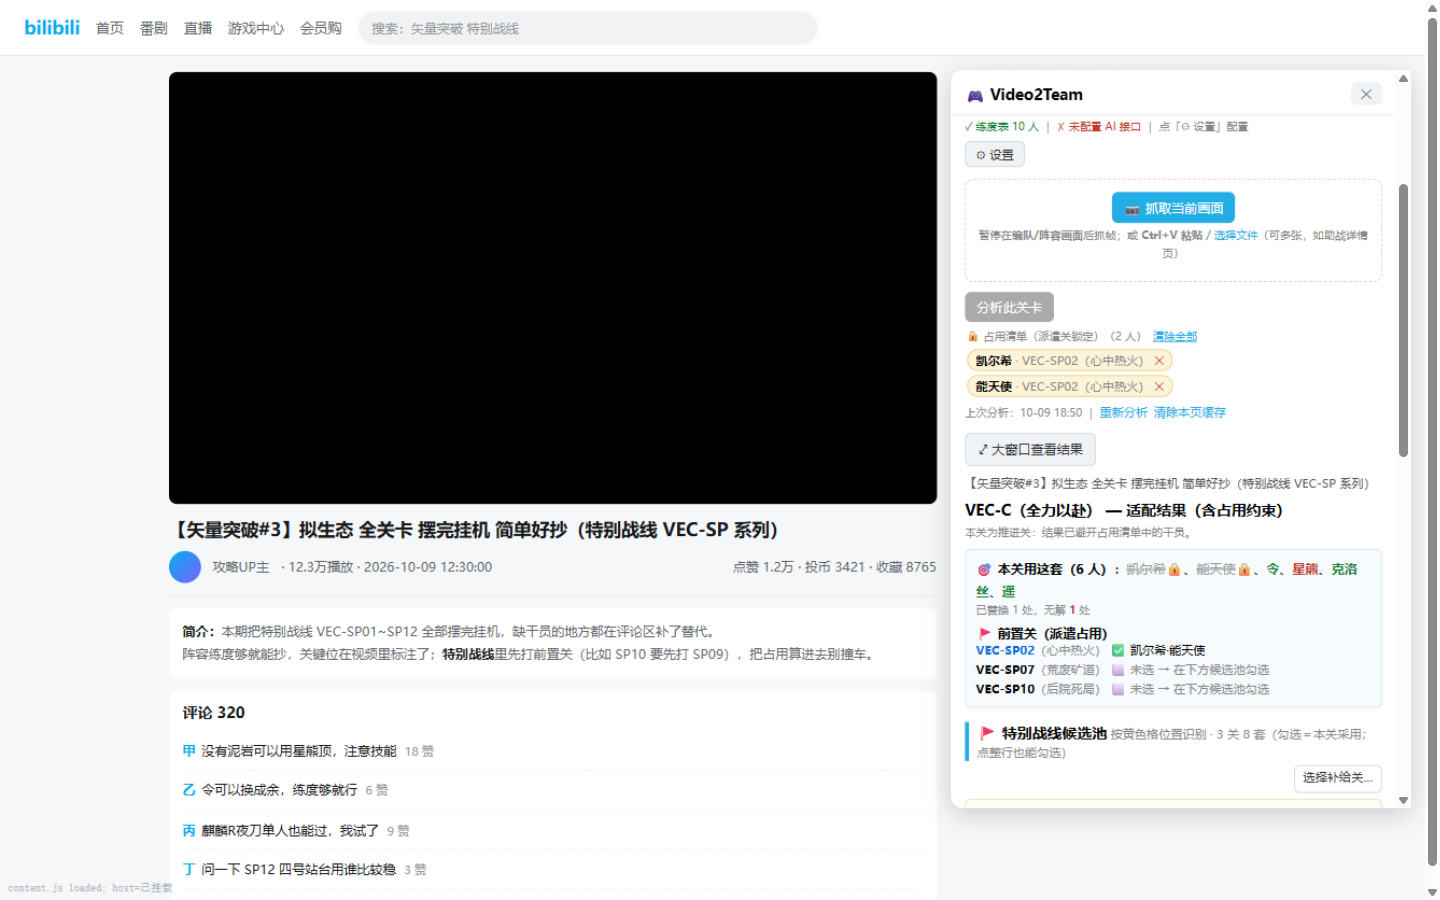
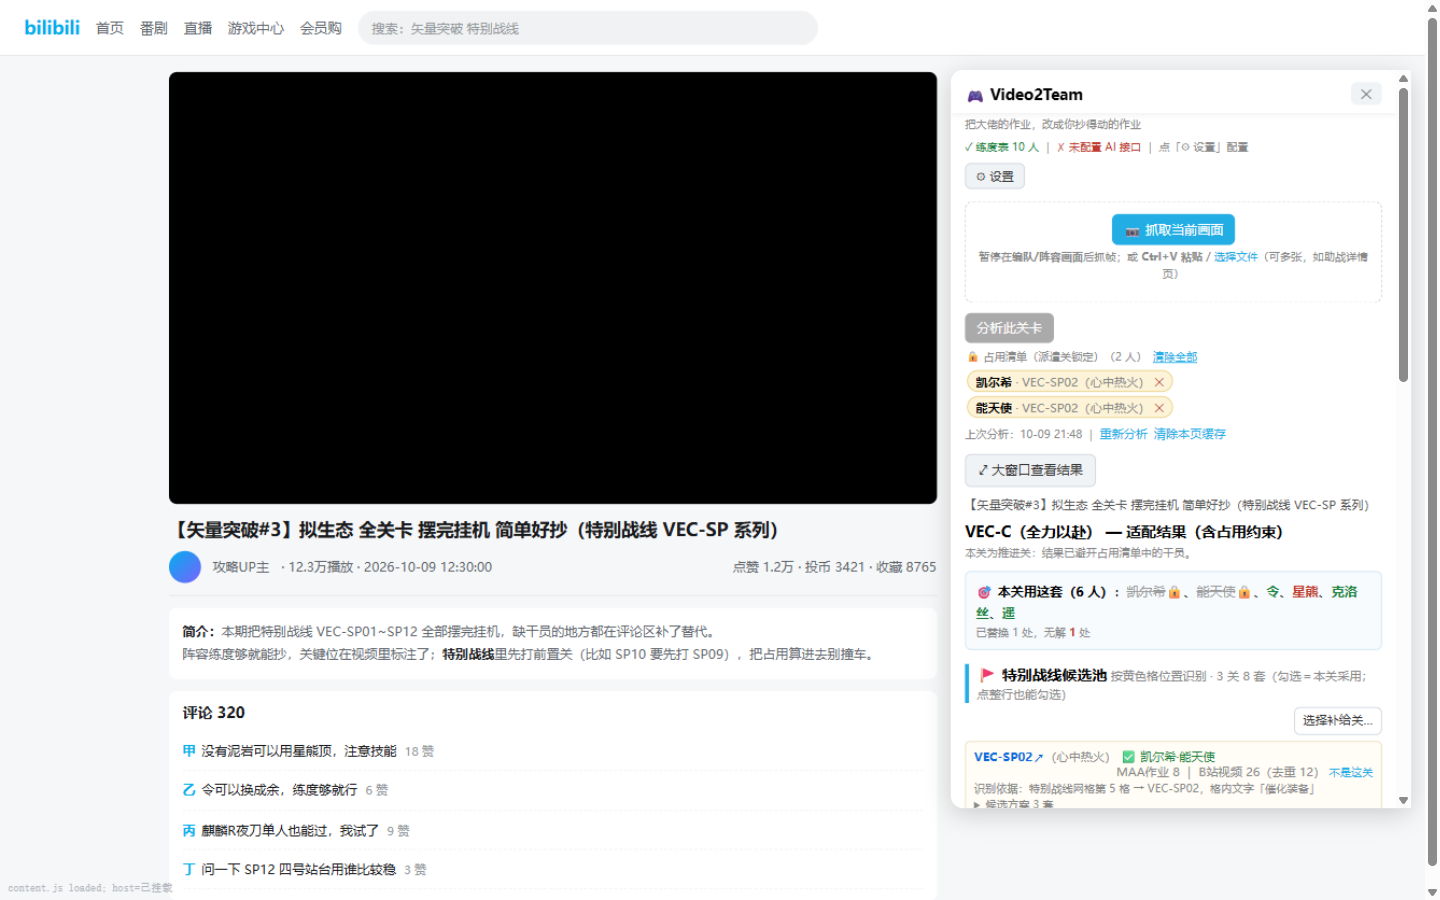
fix(第十六轮 q1+q2): 移除总览块里与候选池重复的「前置关（派遣占用）」列表 + 别名新增
q1（用户实测：P1 那块多余）——总览块里的「🚩 前置关（派遣占用）」逐关列表复述"这关选了哪套"，
与下方「🚩 特别战线候选池」每关行（✅ 已选 / ⬜ 未选，且是可勾选的主交互）重复，故移除：
- src/shared/render.ts overviewBlock() 去掉 guideLines；总览块只留
  「🎯 本关用这套（N 人）」+「已替换 N 处 / 无解 N 处」。面板 / popup / 大窗口共用渲染层，一处生效；
- 顺手修窄面板排版 bug：候选池关卡行右侧浮动的来源计数掉到第二行时（浮动不撑高父盒）
  会盖住下一行「识别依据」（实测重叠）→ 关卡行头部加 display:flow-root 建 BFC；
- 同步 v43-selftest 断言（原「总览块提示去候选池勾选」改为断言该列表已移除、进度由候选池行承接）；
- 同步 design-v4.md §10.6 + 变更记录、design-big-window.md（设计 B 更早做过整块移除，A 只摘重复的 P1 部分）、
  推广稿图2/图4 文案，并用夹具重新生成 docs/promo-images-v2/02-overview.png、04-big-window.png。

q2——别名新增：新能 → 新约能天使、寒克 → 克洛丝（data/aliases.json，共 357 条）；
selftest:v43 加 3 条断言，含「长名不受影响：寒芒克洛丝 仍是寒芒克洛丝」。

回归：npx tsc --noEmit 通过；npm run build 通过；selftest:v43 / stage / maa / bili / feedback 五套全绿。

Changed region(s): [[0.6562, 0.1244, 0.9688, 0.9022], [0.9688, 0.0933, 1.0, 0.2178], [0.9688, 0.4356, 1.0, 0.4978]]

diff --git a/src/shared/render.ts b/src/shared/render.ts
@@ -325,16 +325,18 @@ function pickedSchemeUrl(
 }
 
 /**
- * §10.6（q4）总览块：一屏看清三件事——
- * ① 本关（主推关）最终用哪些干员（被占用的灰+删除线）；② 各前置关选了哪套方案（或还没选）；
- * ③ 有几处替换/无解。放在结果最顶部，避免用户从长列表里自己拼。
+ * §10.6（q4）总览块：一屏看清本关（主推关）最终用哪些干员（被占用的灰+删除线）与替换/无解计数。
+ *
+ * 第十六轮（2026-10-09）**移除「🚩 前置关（派遣占用）」列表**（用户实测：多余）：
+ * 它逐关复述「这关选了哪套」，与下方「🚩 特别战线候选池」完全重复——候选池每关行本来就写着
+ * ✅ 已选什么 / ⬜ 未选，而且那才是可勾选的主交互；面板顶部还有「🔒 占用清单」chips、大窗口顶部有
+ * 「前置关 x/y 已选」chip。前置关进度不需要在总览里再列一遍。
  */
 function overviewBlock(
   dispatch: boolean,
   out: AnalysisOutput,
   hasOp: HasOp,
   lockedOps: LockedOps,
-  picks: DispatchPicks,
 ): string {
   const lineup = dispatch
     ? out.roster.slots.map((s) => s.operator)
@@ -347,32 +349,11 @@ function overviewBlock(
   const substituted = out.recommendations.filter((s) => s.status === "substituted").length;
   const unresolved = out.recommendations.filter((s) => s.status === "unresolved").length;
 
-  const pools = out.dispatchGuides ?? [];
-  const guideLines = pools.map((pool) => {
-    const pick = picks[pool.displayCode.toUpperCase()];
-    const chosen = pick
-      ? `✅ ${pick.ops.map((n) => esc(n)).join("·")}`
-      : `<span class="dim">⬜ 未选 → 在下方候选池勾选</span>`;
-    // 已选的关：显示码本身指向**那套已选攻略**（勾选后候选行会折叠，这里是唯一的一键入口）
-    const pickedLink = pickedSchemeUrl(pool, pick);
-    const codeHtml = pickedLink
-      ? `<a href="${esc(pickedLink.url)}" target="_blank" rel="noreferrer" style="color:#0969da;text-decoration:none" ` +
-        `title="${esc(`打开已选方案：${pickedLink.label}`)}">${esc(pool.displayCode)}</a>`
-      : esc(pool.displayCode);
-    return (
-      `<div style="font-size:12px;line-height:1.6"><b>${codeHtml}</b>` +
-      `<span class="dim">（${esc(pool.stageName || "关卡名待核实")}）</span> ${chosen}</div>`
-    );
-  });
-
   return (
     `<div style="background:#f7fbfe;border:1px solid #cfe6f5;border-radius:6px;padding:8px 10px;margin:8px 0">` +
     `<div style="font-size:13px;line-height:1.7"><b>${dispatch ? "🎯 本关阵容" : "🎯 本关用这套"}（${names.length} 人）</b>：${lineupHtml}</div>` +
     (substituted || unresolved
       ? `<div class="hint">${substituted ? `已替换 ${substituted} 处` : ""}${substituted && unresolved ? "，" : ""}${unresolved ? `无解 <span class="miss">${unresolved}</span> 处` : ""}</div>`
-      : "") +
-    (guideLines.length
-      ? `<div style="margin-top:4px;font-size:13px"><b>🚩 前置关（派遣占用）</b></div>` + guideLines.join("")
       : "") +
     `</div>`
   );
@@ -536,7 +517,9 @@ export function renderDispatchGuides(
       return (
         `<div class="stagepool" data-stage="${esc(pool.displayCode)}" data-picked="${picked ? "1" : "0"}" ` +
         `style="padding:6px 8px;margin:4px 0;background:#fffdf6;border:1px solid #eadfbd;border-radius:5px">` +
-        `<div style="font-size:12px">` +
+        // display:flow-root：窄面板（视频页 460px）下关名+已选一长，右侧浮动的来源计数会掉到第二行，
+        // 而浮动不撑高父盒 → 会盖住下一行的「识别依据」（实测重叠）。建 BFC 让它把父盒撑开、换行显示。
+        `<div style="font-size:12px;display:flow-root">` +
         `<b><a href="${esc(stageUrl)}" target="_blank" rel="noreferrer" style="color:#0969da;text-decoration:none" ` +
         `title="${esc(stageTip)}">` +
         `${esc(pool.displayCode)}${stageMark}</a></b>` +
@@ -702,7 +685,7 @@ export function renderResultSections(
       `<div class="stage">${esc(out.stage)} — ${heading}</div>` +
       `<div class="hint">${stageHint}</div>` +
       resolutionNote,
-    overview: overviewBlock(dispatch, out, hasOp, lockedOps, options.picks ?? {}),
+    overview: overviewBlock(dispatch, out, hasOp, lockedOps),
     guides: emptyLocksHint + dispatchGuides,
     slots:
       sectionHeading("🎯 本关适配阵容", `${out.recommendations.length} 个槽位`) +

diff --git a/docs/promo-xiaoheihe-v2.md b/docs/promo-xiaoheihe-v2.md
@@ -30,9 +30,9 @@
 | 序号 | 文件名 | 截什么（把界面调到这个状态再截） |
 |---|---|---|
 | 图1 | `01-pool-occupied.png` | **补给关候选池 + 跨关占用（做封面）**：真实攻略视频页 → 打开面板 → 候选池里**勾选某一关的一套方案**（如 VEC-SP02）→ 把面板滚到下面几关，拍到「下一关那行被灰掉 + 删除线 + 行尾『⚠ …已被 VEC-SP02 占用——勾选本方案会把占用改到本关』」 |
-| 图2 | `02-overview.png` | **结果总览**：同一次分析，面板滚到最上面，拍到「本关用这套（N 人）：…」（绿=你有/红=没有/灰+🔒=已派遣）+「🚩 前置关（派遣占用）」几行 |
+| 图2 | `02-overview.png` | **结果总览**：同一次分析，面板滚到最上面，拍到「本关用这套（N 人）：…」（绿=你有/红=没有/灰+🔒=已派遣）与其下的「已替换 N 处，无解 N 处」；紧接着拍进「🚩 特别战线候选池」的头两行即可——**前置关各选了什么以候选池那几行为准**（总览块里原来那份「🚩 前置关（派遣占用）」列表 2026-10-09 已移除，因为和候选池重复） |
 | 图3 | `03-supply-picker.png` | **「选择补给关…」浮层**：候选池顶部点开，把序号网格拍全（**最好有两格勾选态**），右下角「已选 N 关（将查询 x / 将移除 y）」也拍进去 |
-| 图4 | `04-big-window.png` | **大窗口结果页**：点「⤢ 大窗口查看结果」后截全屏（左候选池、右阵容、顶栏 chips） |
+| 图4 | `04-big-window.png` | **大窗口结果页**：点「⤢ 大窗口查看结果」后截全屏（左候选池、右「本关用这套 + 配备阵容」、顶栏 chips） |
 | 图5 | `05-settings.png` | **设置页**（可选；拍好了放进 `docs/promo-images-v2/` 跑一次上传脚本，我再把图位加进成稿）：`chrome://extensions` → 「扩展程序选项」，拍「我的干员 box」+「版本与更新」（显示 v0.3.0）+「公告」 |
 
 **截图小技巧**：1920 宽、别缩放；图1/图2 可以只截右半屏 + 面板（小黑盒会压图，太大字看不清）。

diff --git a/docs/design-big-window.md b/docs/design-big-window.md
@@ -49,6 +49,9 @@
 - **去掉 KPI 条**：人数/替换/无解/占用在候选池行与阵容里都能看到，单列一排行信息密度反而下降；
 - **右栏只留「本关适配阵容」**：原先的「总览块（本关用这套 + 前置关状态）」与「占用清单 chips」
   与左侧候选池重复（候选池行已经写着「已选 凯尔希·能天使」/「未选」，勾选与取消也在那里），故移除；
+  - 补充（2026-10-09，第十六轮）：**`main`（设计 A）也把总览块里重复的那半截摘了**——只保留
+    「🎯 本关用这套（N 人）」+ 替换/无解计数，删掉「🚩 前置关（派遣占用）」逐关列表（与候选池重复）。
+    两版现在的区别只剩：B 整块不留、A 留本关摘要；面板/popup（两分支共用）也同步只留摘要。
 - 与 main 共用的功能修复（两端都有）：**识别依据**行（「特别战线网格第 5 格，格内读到『催化装备』」）、
   每关「**不是这关**」排除 + 底部「恢复」、方案行**只留一个链接**（来源标签即链接）、
   整行点击=勾选、顶部「✕ 关闭」+ Esc 关闭、大窗口**复用**（不再每次都新开窗口）。

diff --git a/docs/promo-xiaoheihe-post.md b/docs/promo-xiaoheihe-post.md
@@ -41,7 +41,7 @@
 
 **【它到底做什么】**
 
-![结果总览：本关用这套 + 前置关各选了什么](promo-images-v2/02-overview.png)
+![结果总览：本关用这套（N 人）+ 已替换/无解计数](promo-images-v2/02-overview.png)
 
 一句话：**识别攻略视频的编队 → 把这关弹幕+评论里所有「XX 可以换 XX」挖出来 → 和你的练度表逐一比对 → 给你一份你能用的阵容。**
 
